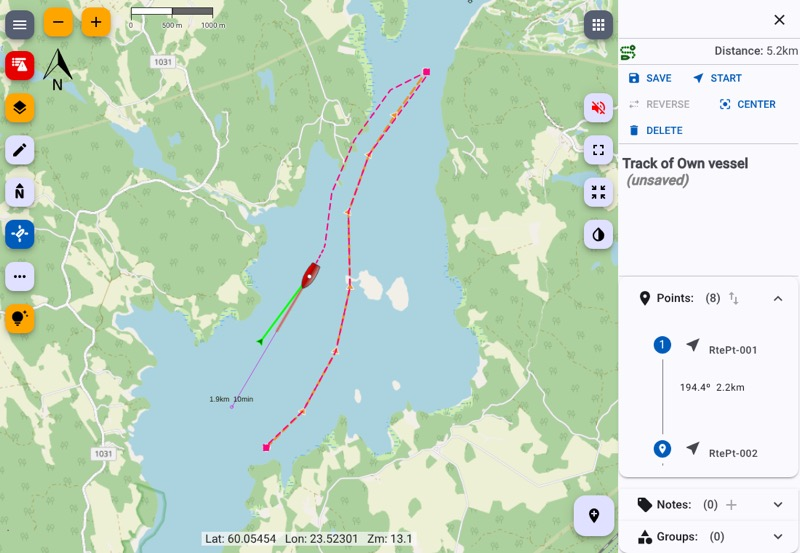
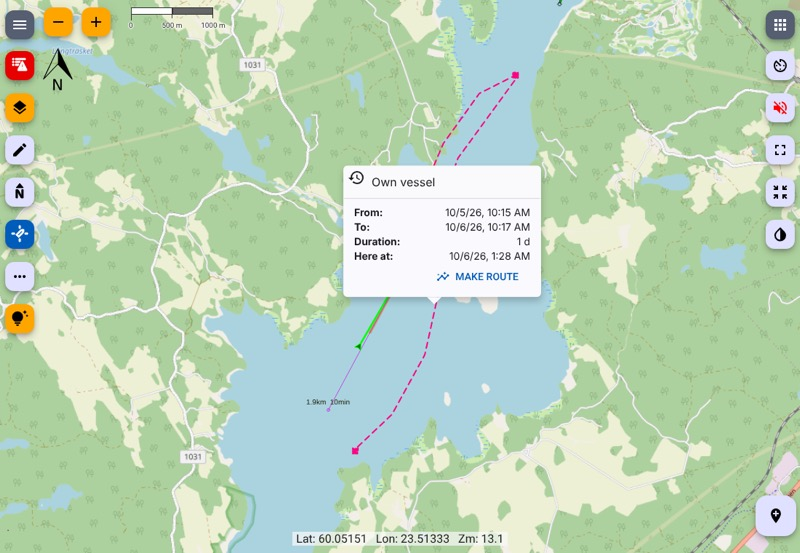
docs(routes): make route styles a feature of its own (#1305)
The 3.5.0-beta.0 release notes listed the route style work only as two
Route Planning improvements, so nothing said that you can now choose how
routes are drawn. Route Styles is now its own Feature Browser entry,
leading with the chevron screenshot and a summary sentence the release
notes use under New Features. Route Planning keeps a one-line pointer to
it. The #1285 row moves to route-styles as its introduction (new), #1251
follows as an enhancement, and the help's Route style entry points at
the new page.

diff --git a/src/assets/help/index.html b/src/assets/help/index.html
@@ -2527,7 +2527,7 @@
           <b>Route style</b>: How routes are drawn on the map:
           <b>Flags &amp; pins</b> (default), <b>Classic</b>,
           <b>Chevrons (animated)</b> or <b>Chevrons (static)</b>. See the
-          Feature Browser &rarr; <i>Route Planning</i>.<br />
+          Feature Browser &rarr; <i>Route Styles</i>.<br />
 
           <b>Auto-advance to next point on arrival</b>: Check this option to
           automatically advance to the next route point once the target

diff --git a/features/route-planning.md b/features/route-planning.md
@@ -84,32 +84,10 @@ the route on the chart. The route stays in your Routes list, ready to show
 again, and the list's checkbox stays in step. (A route that is currently
 active can't be hidden.)
 
-**How routes look.** Choose how routes are drawn under **Settings → Course →
-Routes → Route style**. The map redraws as soon as you change it.
+**How routes look.** To change how routes are drawn on the chart, see *Route
+Styles*.
 
-- **Flags & pins** (the default): a green flag where the route starts, a red
-  flag where it ends, and a pin at each point in between, pointing toward the
-  next one, so you can see which way the route runs at a glance.
-- **Classic**: Freeboard's earlier small shapes: a circle at the start, a
-  triangle at each point and a diamond at the end. They take the route line's
-  color, so the active route and a route you're editing stand out by their
-  markers too.
-- **Chevrons (animated)**: chevrons flow along every leg in the direction the
-  route runs, with a thin guide line on each side. Route points are plain dots,
-  since the chevrons show the direction.
-- **Chevrons (static)**: the same chevrons, standing still. Choose this on a
-  slow device, because the animated style keeps redrawing the map while a
-  route is shown.
-
-![Fig 3. Chevrons show which way each route runs: the route being followed in blue, another route in green](route-planning-3.jpg)
-
-The chevrons stay evenly spaced at every zoom level. When you follow a route in
-reverse, they point the other way. With Flags & pins or Classic, the route
-you're following also shows direction arrows along its legs. If a symbol
-provider supplies its own route markers, those replace the built-in ones in
-every style; see *Custom Map Symbols*.
-
-![Fig 4. Make Route in the popover of a tapped track](route-planning-4.jpg)
+![Fig 3. Make Route in the popover of a tapped track](route-planning-3.jpg)
 
 **Making a route from a recorded track.** A passage you've already made
 safely is a good route to follow again, and so is one you've watched another
@@ -123,7 +101,7 @@ Freeboard can pick out the passage, offers **Make Route**.
 or in its popover when the info panel is turned off, ready to **Start**,
 **Save** or **Reverse** like any route you've drawn.
 
-![Fig 5. The route made from a passage between two anchorages, ready to Start or Save](route-planning-5.jpg)
+![Fig 4. The route made from a passage between two anchorages, ready to Start or Save](route-planning-4.jpg)
 
 Which passage you get:
 

diff --git a/features/route-styles.md b/features/route-styles.md
@@ -1,0 +1,33 @@
+---
+id: route-styles
+title: Route Styles
+category: Routes
+---
+
+![Fig 1. Chevrons show which way each route runs: the route being followed in blue, another route in green](route-styles-1.jpg)
+
+Choose how routes are drawn on the chart: flags and pins, Freeboard's classic
+shapes, or chevrons that show which way each route runs.
+
+**To change it**, go to **Settings → Course → Routes → Route style**. The map
+redraws as soon as you change it.
+
+- **Flags & pins** (the default): a green flag where the route starts, a red
+  flag where it ends, and a pin at each point in between, pointing toward the
+  next one, so you can see which way the route runs at a glance.
+- **Classic**: Freeboard's earlier small shapes: a circle at the start, a
+  triangle at each point and a diamond at the end. They take the route line's
+  color, so the active route and a route you're editing stand out by their
+  markers too.
+- **Chevrons (animated)**: chevrons flow along every leg in the direction the
+  route runs, with a thin guide line on each side. Route points are plain dots,
+  since the chevrons show the direction.
+- **Chevrons (static)**: the same chevrons, standing still. Choose this on a
+  slow device, because the animated style keeps redrawing the map while a
+  route is shown.
+
+The chevrons stay evenly spaced at every zoom level. When you follow a route in
+reverse, they point the other way. With Flags & pins or Classic, the route
+you're following also shows direction arrows along its legs. If a symbol
+provider supplies its own route markers, those replace the built-in ones in
+every style; see *Custom Map Symbols*.
